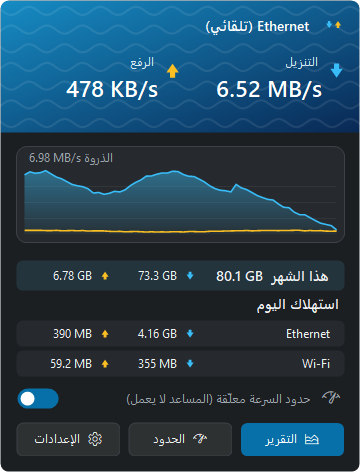
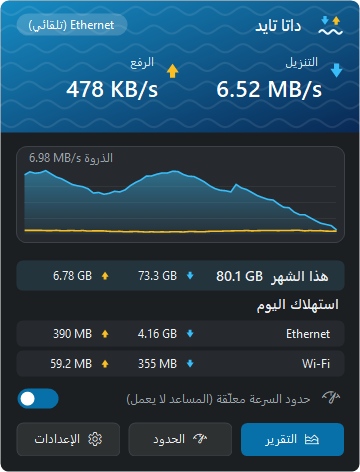
App name in the flyout header, GitHub and release notes links on the Updates page

diff --git a/src/DataTide/UI/Flyout/TrafficFlyout.cs b/src/DataTide/UI/Flyout/TrafficFlyout.cs
@@ -215,12 +215,22 @@ sealed class TrafficFlyout : Form
         using var fName = new Font("Segoe UI Semibold", 10.5f);
         using var fBig = new Font("Segoe UI Semibold", 17f);
         using var fLabel = new Font("Segoe UI", 8.5f);
-        int markS = Px(22);
-        var markR = new Rectangle(rtl ? Width - pad - markS : pad, Px(14), markS, markS);
-        Art.Mark(g, markR, simple: true);
-        var nameR = rtl ? new Rectangle(pad, Px(12), markR.Left - pad - Px(8), Px(26)) : new Rectangle(markR.Right + Px(8), Px(12), Width - markR.Right - pad - Px(8), Px(26));
+        // Brand on the start side (mark and app name, like Salaty Reminder's card), the interface as a pill on the far side.
+        int markS = Px(28);
+        var markR = new Rectangle(rtl ? Width - pad - markS : pad, Px(10), markS, markS);
+        Art.Mark(g, markR);
+        using var fBrand = new Font("Segoe UI Semibold", 11.5f);
         string auto = app.S.InterfaceId == AppSettings.AutoInterface ? $" ({L.T("Auto")})" : "";
-        TextRenderer.DrawText(g, app.ShownInterfaceName + auto, fName, nameR, Color.White, near | TextFormatFlags.VerticalCenter | TextFormatFlags.EndEllipsis);
+        string iface = app.ShownInterfaceName + auto;
+        Size ps = TextRenderer.MeasureText(iface, fSmall);
+        int pillW = Math.Min(ps.Width + Px(18), Width / 2 - pad);
+        var pillR = new Rectangle(rtl ? pad : Width - pad - pillW, markR.Top + (markS - Px(22)) / 2, pillW, Px(22));
+        Art.FillRound(g, pillR, Px(11), Color.FromArgb(46, 255, 255, 255));
+        TextRenderer.DrawText(g, iface, fSmall, Rectangle.Inflate(pillR, -Px(8), 0), Color.White,
+            TextFormatFlags.HorizontalCenter | TextFormatFlags.VerticalCenter | TextFormatFlags.EndEllipsis | (rtl ? TextFormatFlags.RightToLeft : 0));
+        int brandW = Width - pad * 2 - markS - Px(8) - pillW - Px(8);
+        var brandR = rtl ? new Rectangle(markR.Left - Px(8) - brandW, markR.Top, brandW, markS) : new Rectangle(markR.Right + Px(8), markR.Top, brandW, markS);
+        TextRenderer.DrawText(g, L.T("AppName"), fBrand, brandR, Color.White, near | TextFormatFlags.VerticalCenter | TextFormatFlags.EndEllipsis);
 
         int half = (Width - pad * 2) / 2;
         void Speed(int col, bool up, string label, string value, Color c)

diff --git a/src/DataTide/UI/Settings/SettingsForm.cs b/src/DataTide/UI/Settings/SettingsForm.cs
@@ -42,6 +42,7 @@ sealed class SettingsForm : Form
     // Updates
     readonly ToggleSwitch tglAutoCheck = new(), tglAutoInstall = new();
     readonly Button btnCheck = new() { AutoSize = true, Height = 30 };
+    readonly IconButton btnGitHub = new() { Width = 150, Height = 32, Glyph = Art.IconOpen }, btnNotes = new() { Width = 150, Height = 32, Glyph = Art.IconDocument };
     readonly Label lblUpdate = new() { AutoSize = true, Tag = "dim", MaximumSize = new Size(440, 0) };
 
     readonly Button btnSave = new() { Size = new Size(110, 34) }, btnCancel = new() { Size = new Size(110, 34) };
@@ -364,7 +365,13 @@ sealed class SettingsForm : Form
             version,
             Row(L.T("AutoCheck"), tglAutoCheck),
             Row(L.T("AutoInstall"), tglAutoInstall),
-            Flow(btnCheck, lblUpdate)));
+            Flow(btnCheck, lblUpdate),
+            Flow(btnGitHub, btnNotes)));
+        btnGitHub.Text = L.T("GitHubRepo");
+        btnNotes.Text = L.T("ReleaseNotes");
+        btnGitHub.Click += (_, _) => Updater.OpenPage(Updater.RepoPage);
+        btnNotes.Click += (_, _) => Updater.OpenPage(Updater.ReleasesPage);
+        tip.SetToolTip(btnGitHub, Updater.RepoPage);
         tglAutoCheck.CheckedChanged += (_, _) => SyncEnabled();
         btnCheck.Click += async (_, _) =>
         {

diff --git a/src/DataTide/Localization/L.cs b/src/DataTide/Localization/L.cs
@@ -142,6 +142,8 @@ public static class L
         ["Updates"] = ("Updates", "التحديثات"),
         ["AutoCheck"] = ("Check for updates automatically", "التحقق من التحديثات تلقائيًا"),
         ["AutoInstall"] = ("Install updates automatically", "تثبيت التحديثات تلقائيًا"),
+        ["GitHubRepo"] = ("GitHub page", "صفحة GitHub"),
+        ["ReleaseNotes"] = ("Release notes", "ملاحظات الإصدار"),
         ["CheckNow"] = ("Check now", "تحقق الآن"),
         ["Version"] = ("Version {0}", "الإصدار {0}"),
         ["UpToDate"] = ("You're on the latest version ({0}).", "لديك أحدث إصدار ({0})."),

diff --git a/src/DataTide/Services/Updater.cs b/src/DataTide/Services/Updater.cs
@@ -14,6 +14,7 @@ public static class Updater
     public const string Repo = "medovanx/data-tide";
     public const string AssetName = "DataTide.exe";
     public static string ReleasesPage => $"https://github.com/{Repo}/releases";
+    public static string RepoPage => $"https://github.com/{Repo}";
 
     public sealed record Release(Version Version, string Tag, string PageUrl, string AssetUrl, string? Sha256);
 
